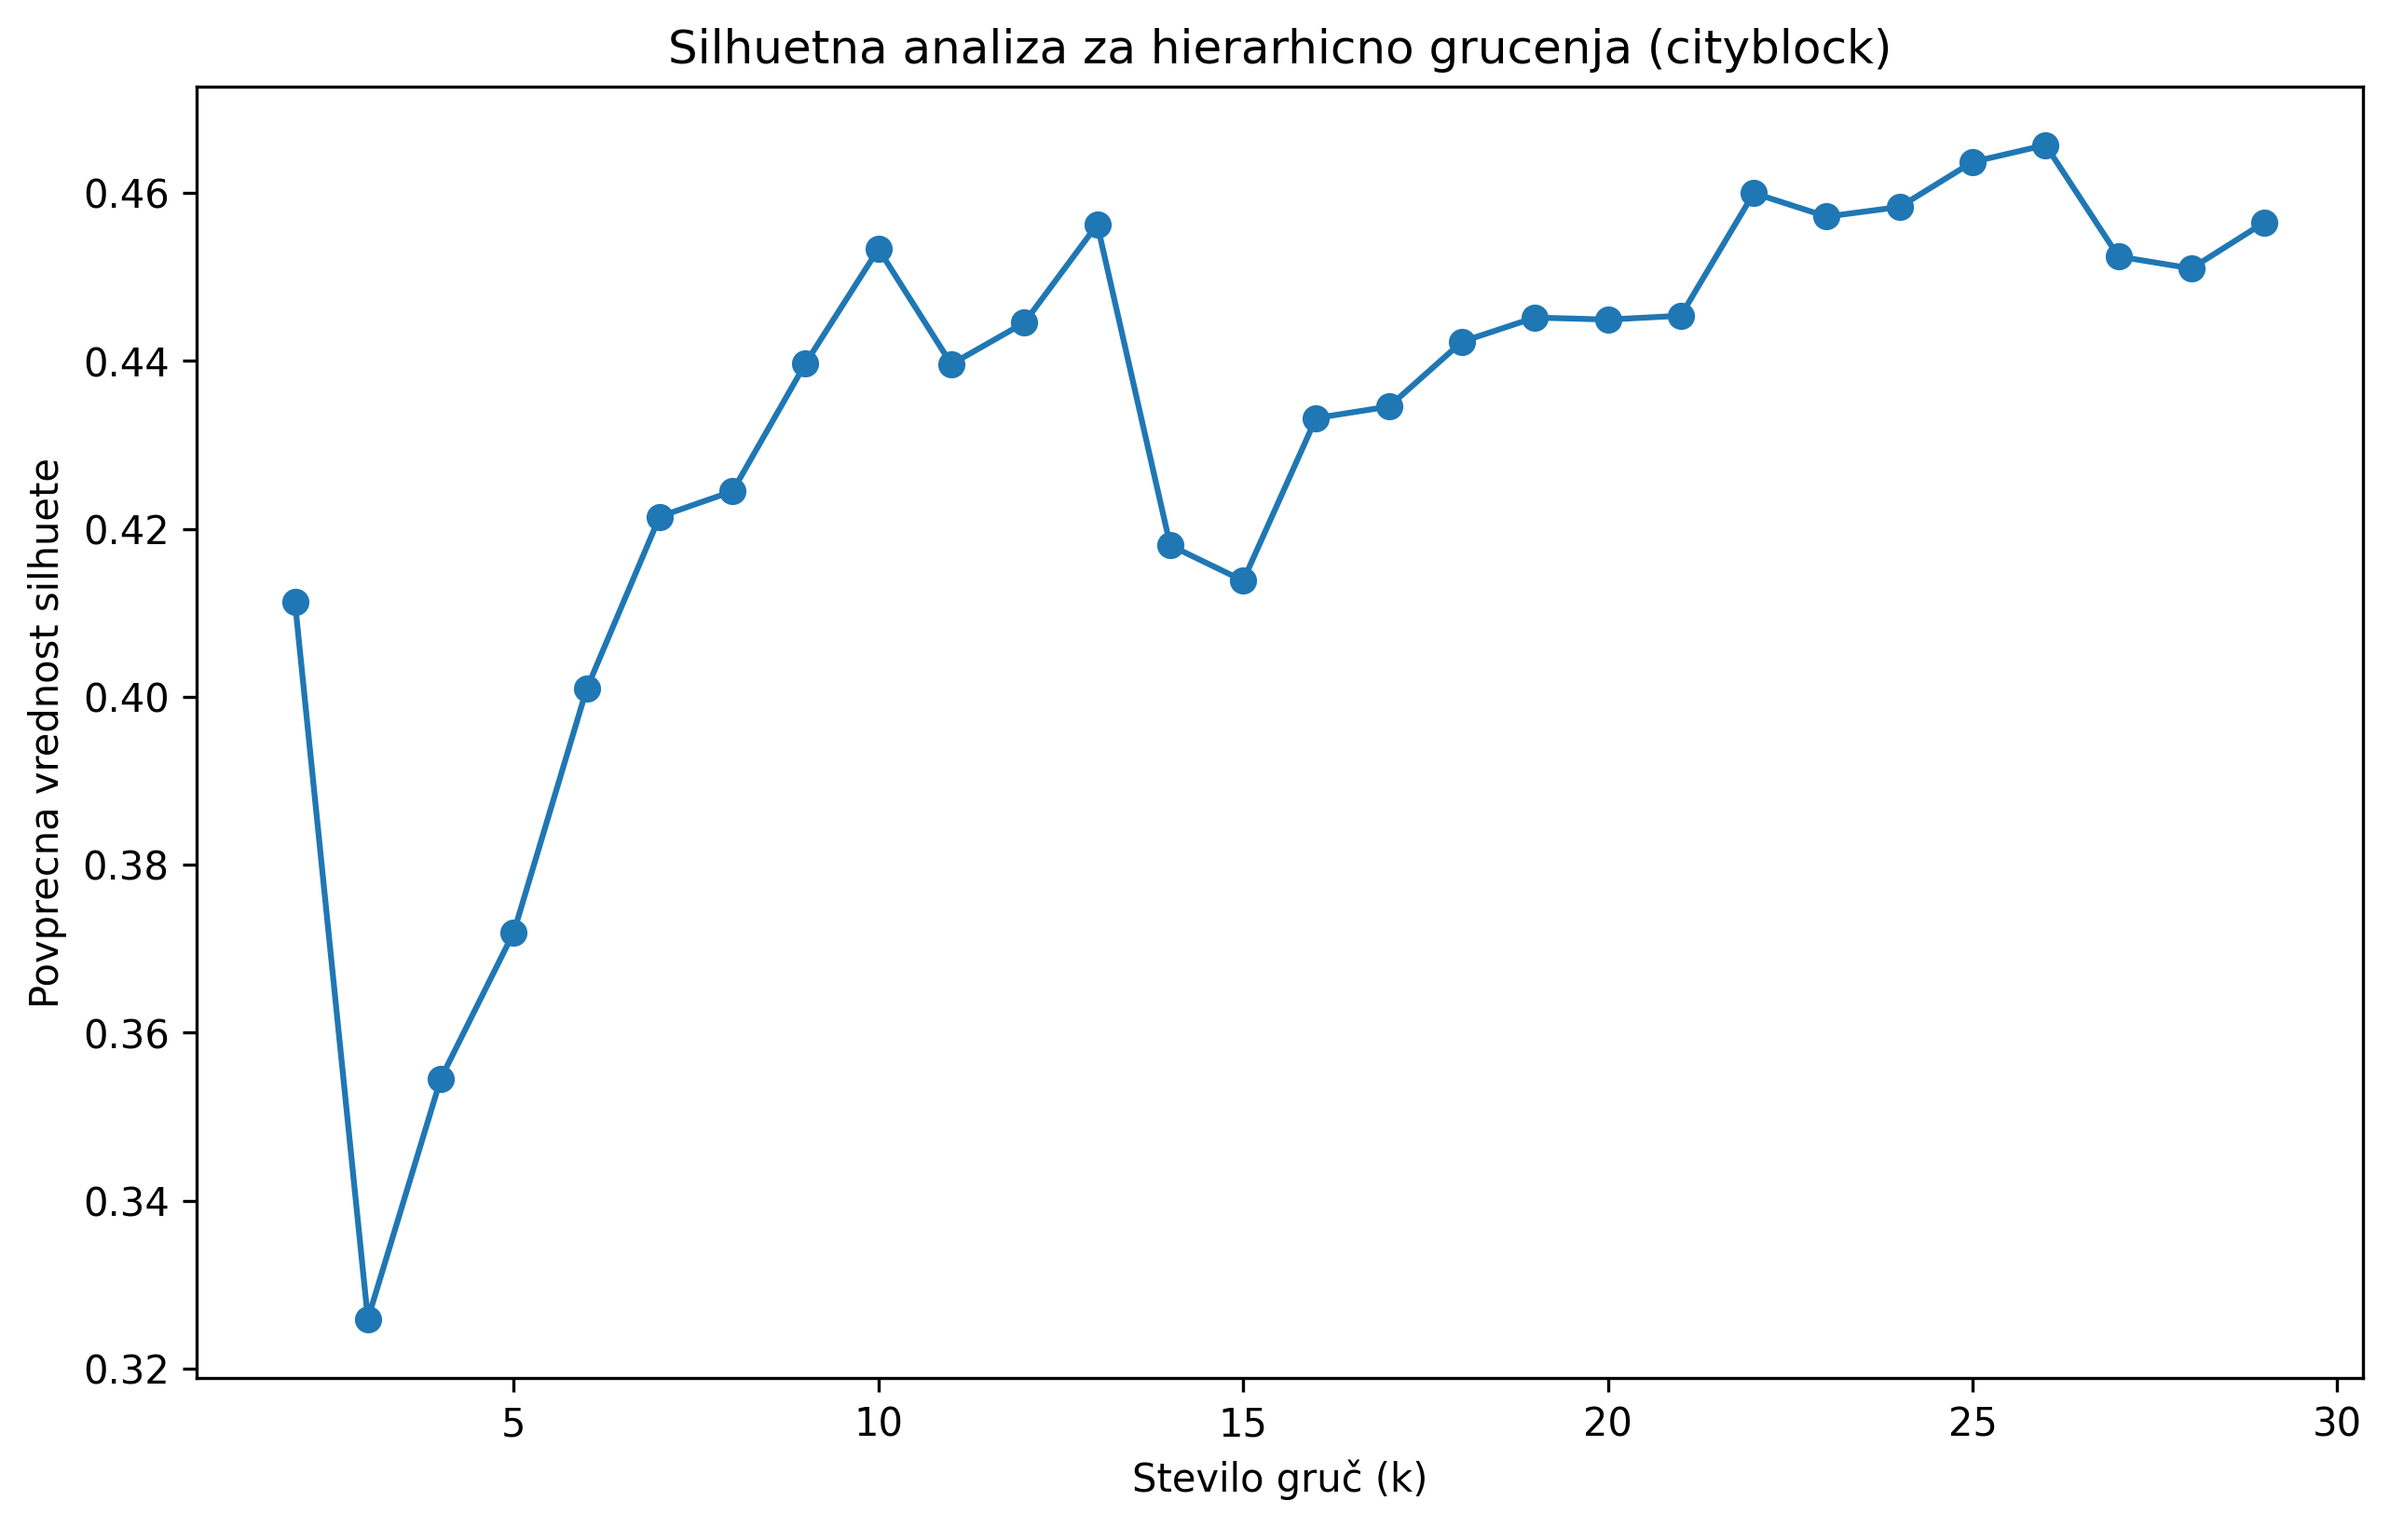
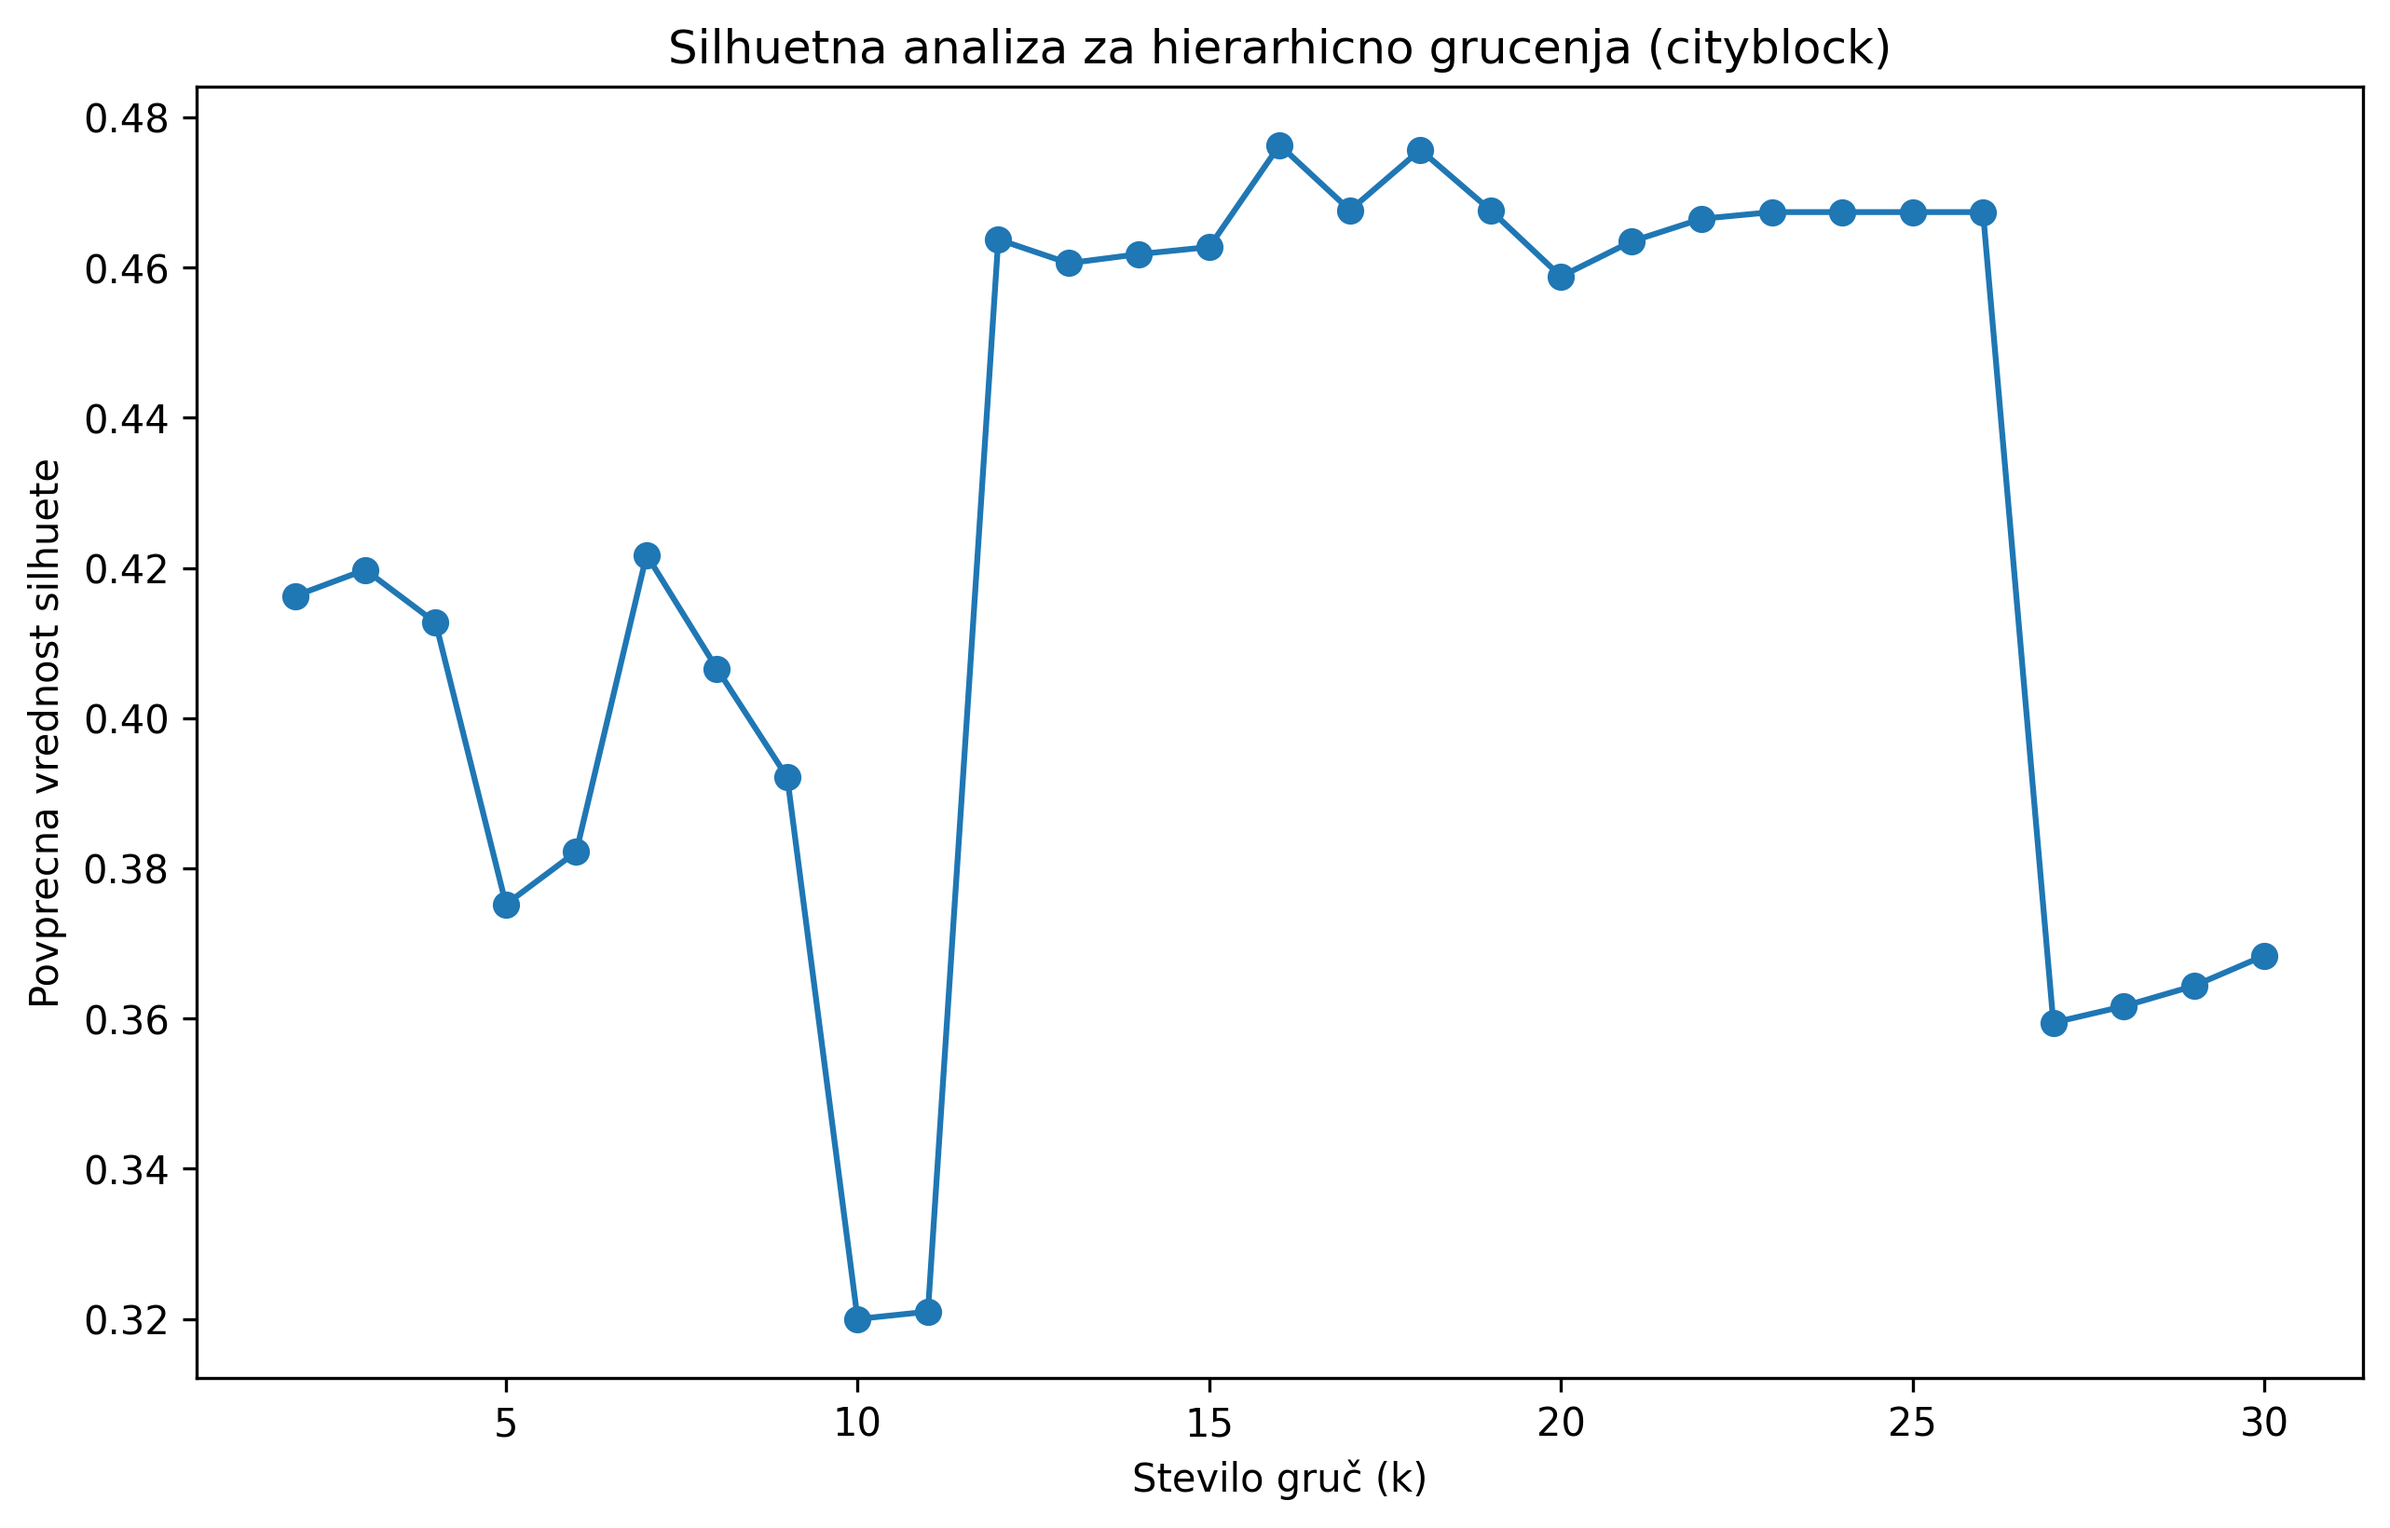
popravil metodo za manhatensko razdaljo pri hierarhicnem grucenju

diff --git a/podatkovna_analiza.py b/podatkovna_analiza.py
@@ -112,11 +112,14 @@ with open("print_output.txt", "w", encoding="utf-8") as f:
         for dist_type in distance_types:
             dist_matrix = pdist(data, metric=dist_type)
 
-            Z = linkage(dist_matrix, method="ward")
+            if dist_type == "euclidean":
+                Z = linkage(dist_matrix, method="ward")
+            else:
+                Z = linkage(dist_matrix, method="complete")
 
             # Step 5: determiniraj "optimalno" stevilo gruc
             sil_scores = {}
-            for k in range(2, 30):
+            for k in range(2, 31):
                 cluster_labels = fcluster(Z, k, criterion="maxclust")
                 score = silhouette_score(
                     squareform(dist_matrix), cluster_labels, metric="precomputed"
@@ -226,7 +229,7 @@ with open("print_output.txt", "w", encoding="utf-8") as f:
 
         dist_matrix = pdist(data, metric="cityblock")
 
-        Z = linkage(dist_matrix, method="ward")
+        Z = linkage(dist_matrix, method="complete")
 
         sil_scores = {}
         for k in range(2, 5):
@@ -237,8 +240,8 @@ with open("print_output.txt", "w", encoding="utf-8") as f:
             sil_scores[k] = score
             # tabela vrstice: gruce, stolpci: povprecne vrednosti vprasanj
             data_with_clusters = data.copy()
-            data_with_clusters["Cluster"] = cluster_labels
-            df_cluster_means = data_with_clusters.groupby("Cluster").mean().round(4)
+            data_with_clusters["Gruca"] = cluster_labels
+            df_cluster_means = data_with_clusters.groupby("Gruca").mean().round(4)
             if k == 3:
                 print("\n------------------------------------------------------------")
                 print(f"IZBRANA tabela podatkov za {k} gruc:")
